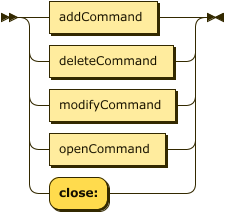
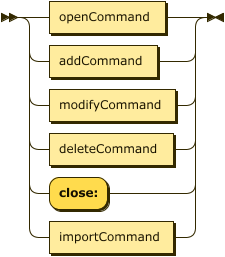
update

diff --git a/README.md b/README.md
@@ -6,16 +6,16 @@ Universo Santa Tecla
 
 1. [Modelo del dominio](#modelo-del-dominio)  
 2. [Disciplina de Requisitos](#disciplina-de-requisitos)  
-   2.1. [Actores y casos de uso](#actores-y-casos-de-uso)  
+   2.1. [Actores y casos de uso](#actores-y-casos-de-uso)   
    2.2. [Contexto](#contexto)  
    2.3. [Prototipo de Interfaz](#prototipo-de-interfaz)  
-   2.4. [Gramática del lenguaje](#gramática-del-lenguaje) 
-   2.5. [Semántica de comandos](#semántica-de-comandos) 
+   2.4. [Gramática del lenguaje](#gramática-del-lenguaje)  
+   2.5. [Semántica de comandos](#semántica-de-comandos)  
 3. [Disciplina de Analisis](#disciplina-de-análisis)  
-   3.1. [Arquitectura de análisis](#arquitectura-de-análisis) 
+   3.1. [Arquitectura de análisis](#arquitectura-de-análisis)  
    3.2. [Análisis de casos de uso](#análisis-de-casos-de-uso)  
-      3.2.1. [Add Member](#add-member)  
-      3.2.2. [Add Relation](#add-relation)  
+      - 3.2.1. [Add Member](#add-member)  
+      - 3.2.2. [Add Relation](#add-relation)  
 4. [Disciplina de Diseño](#disciplina-de-diseño)  
    4.1. [Arquitectura del sistema de diseño](#arquitectura-del-sistema-de-diseño)  
    4.2. [Diseño de casos de uso](#diseño-de-casos-de-uso)  
@@ -217,19 +217,28 @@ referenced by:
 
 *   [deleteCommand](#deleteCommand "deleteCommand")
 
+<a name="importCommand">importCommand:</a>
+
+![](docs/diagrams/out/domainModel/languageSintaxis/importCommand.png)<map name="importCommand.map"><area shape="rect" coords="119,1,229,33" href="#urlGitHubRepo" title="urlGitHubRepo"></map>
+
+
+referenced by:
+
+*   [UST_UML](#UST_UML "UST_UML")
+
 #### Semántica de comandos  
 * Todos los comandos desarrollados son autoexplicativos y estructurados 
 * Siguen una composicion sistemática
 
-*Comandos comunes*
+######  Comandos comunes
+~~~
+open: Member
+~~~
 
 ~~~
 close:
 ~~~
-
-~~~
-open: Member
-~~~
+###### Ingeniería directa
 
 *User account context*
 ~~~
@@ -350,6 +359,10 @@ delete:
   objects:
     - object: OBJECT
 ~~~  
+###### Ingeniería inversa
+~~~
+import: urlGitHubRepo
+~~~  
 * * *
 ## Disciplina de Análisis  
 ### Arquitectura de Análisis  
@@ -379,9 +392,13 @@ Poner ejemplos de patrones como el interprete en nuestro caso, con algún hipere
 
 Sonar, pruebas unitarias, sistema ...
 * Las tecnologías utilizadas en el desarrollo de las pruebas ha sido:
-  - Junit5
-  - Mockito
-  - Base de datos embebida para mongoDB    
+  - Back-end:
+    - Junit5
+    - Mockito
+    - Base de datos embebida para mongoDB  
+  - Front-end:
+    - Jasmine
+    - Karma  
 
 * El objetivo principal de las pruebas de ingeniería directa ha sido ejercitar los diferentes comandos del lenguaje en cada uno de los contextos, y así poder medir la calidad del software, validar que el sistema funciona como se espera y que los requisitos son implementados correctamente.    
 
